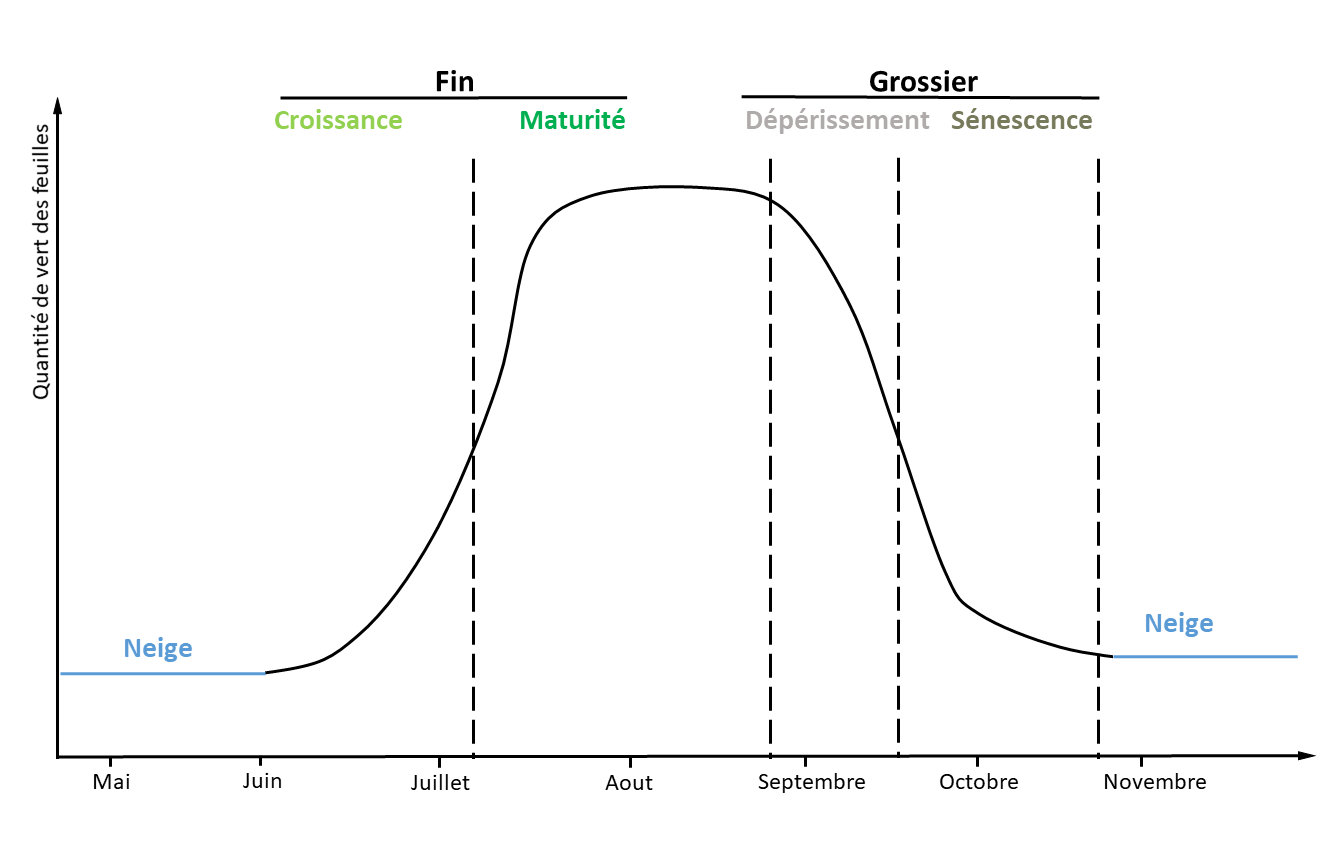
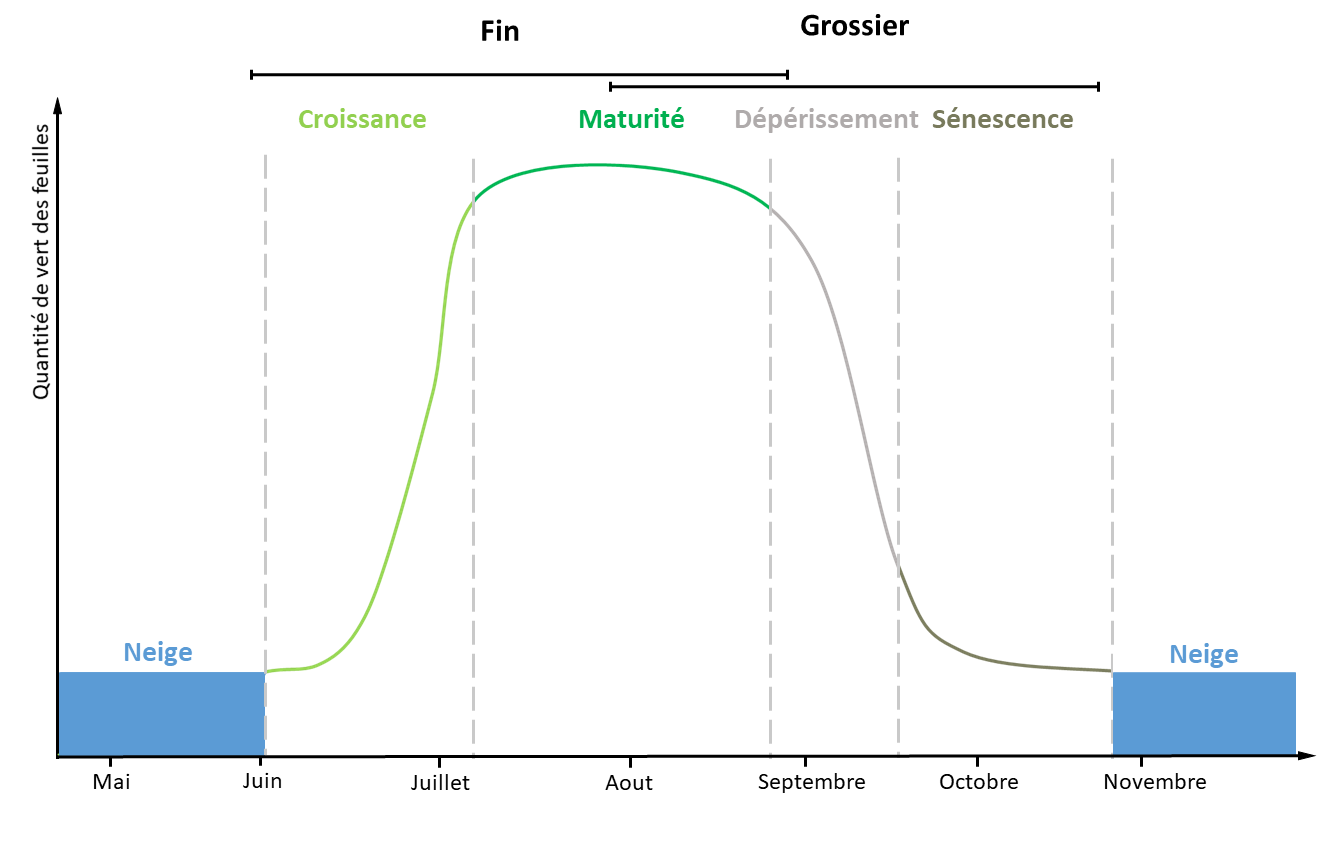
MAJ 26/06/2025 10:13

diff --git a/Carte_d_identité_des_estives.html b/Carte_d_identité_des_estives.html
@@ -294,7 +294,7 @@
 
 /* 2 ▸ slider plus proche du titre */
 .alpage-section .slider{
-  margin-top:12px;              /* 24 px → 12 px */
+  margin-top:10px;              /* 24 px → 12 px */
 }
 
 /* 3 ▸ ordre des blocs : image à gauche, texte à droite */
@@ -309,23 +309,23 @@
 <body class="suivi">
 
   <!-- ▸ NAVBAR PERSEE ───────────────────────────────────────── -->
-<nav class="persee-navbar">
-  <a class="logo" href="index.html">PERSEE</a>
+  <nav class="persee-navbar">
+    <a class="logo" href="index.html">PERSEE</a>
 
-  <!-- burger -->
-  <button class="nav-toggle" aria-label="Ouvrir / fermer le menu">
-    <span></span><span></span><span></span>
-  </button>
+    <!-- burger -->
+    <button class="nav-toggle" aria-label="Ouvrir / fermer le menu">
+      <span></span><span></span><span></span>
+    </button>
 
-  <!-- liens -->
-  <ul class="nav-links">
-    <li><a href="index.html">Le projet</a></li>
-    <li><a href="Suivi_GPS.html">Méthodes</a></li>
-    <li><a href="Carte_d_identité_des_estives.html">Identité des estives</a></li>
-    <li><a href="Espace_démonstrateur.html">Espace démonstrateur</a></li>
-  </ul>
-</nav>
-<!-- ────────────────────────────────────────────────────────── -->
+    <!-- liens -->
+    <ul class="nav-links">
+      <li><a href="index.html">PERSÉE</a></li>
+      <li><a href="Suivi_GPS.html">Méthodes</a></li>
+      <li><a href="Carte_d_identité_des_estives.html">Identité des estives</a></li>
+      <li><a href="Espace_démonstrateur.html">Espace démonstrateur</a></li>
+    </ul>
+  </nav>
+  <!-- ────────────────────────────────────────────────────────── -->
 
   <!-- ============================ HERO ============================ -->
   <section class="hero" style="background-image:url('images/hero.jpg')">
@@ -335,7 +335,7 @@
     </div>
   </section>
 
-  <!-- ============================ SELECTEUR ALPAGE ============================ -->
+  <!-- ============================ SÉLECTEUR D’ESTIVE ============================ -->
   <section class="section section-full">
     <div class="section-content text" style="text-align:center">
       <label for="alp_select">Choisissez une estive&nbsp;:</label>
@@ -347,13 +347,15 @@
     </div>
   </section>
 
-  <!-- ============================ TITRE SECTION ============================ -->
+  <!-- ============================ IDENTITÉ + CARROUSEL — ESTIVE X ============================ -->
   <section id="demonstratrice" class="section section-full alpage-section">
-    <div class="section-content"><h2>Carte d’identité </h2></div>
-  </section>
 
-  <!-- ============================ CARTES ============================ -->
-  <section class="section section-full analysis-section alpage-section">
+    <!-- ▸ Titre -->
+    <div class="section-content">
+      <h2>Carte d’identité</h2>
+    </div>
+
+    <!-- ▸ Blocs d’analyse + carrousel -->
     <div class="section-content">
 
       <div class="slider">
@@ -363,14 +365,14 @@
         <div class="analysis-block">
           <div class="analysis-image">
             <div class="carousel-wrapper" id="car-bloc1">
-              <img src="images/topo.png" class="zoomable behavior-img active" alt="MNT LiDAR" data-caption="Carte topographique (LiDAR)">
-              <img src="images/DAH.png" class="zoomable behavior-img" alt="DAH hydrique" data-caption="Indice DAH (pente × exposition)">
-              <img src="images/pente.png" class="zoomable behavior-img" alt="Carte des pentes" data-caption="Carte des pentes (degrés)">
+              <img src="images/topo.png"  class="zoomable behavior-img active" alt="MNT LiDAR"             data-caption="Carte topographique (LiDAR)">
+              <img src="images/DAH.png"   class="zoomable behavior-img"        alt="DAH hydrique"         data-caption="Indice DAH (pente × exposition)">
+              <img src="images/pente.png" class="zoomable behavior-img"        alt="Carte des pentes"     data-caption="Carte des pentes (degrés)">
             </div>
           </div>
           <div class="analysis-text">
             <h3>Topographie et hauteur de végétation</h3>
-            <p>Nous traitons les données Lidar de l’IGN pour caractériser la topographie des estives et la hauteur de la végétation à très haute résolution spatiale (1 m).</p>
+            <p>Nous traitons les données LiDAR de l’IGN pour caractériser la topographie des estives et la hauteur de la végétation à très haute résolution spatiale (1&nbsp;m).</p>
           </div>
         </div>
 
@@ -381,14 +383,12 @@
               <img src="images/snow2021.png" class="zoomable behavior-img" alt="SMOD 2021" data-caption="Enneigement hiver 2021 (SMOD)">
               <img src="images/snow2022.png" class="zoomable behavior-img" alt="SMOD 2022" data-caption="Enneigement hiver 2022 (SMOD)">
               <img src="images/snow2023.png" class="zoomable behavior-img" alt="SMOD 2023" data-caption="Enneigement hiver 2023 (SMOD)">
-              <img src="images/Fsca.png" class="zoomable behavior-img active" alt="FSCA" data-caption="Enneigement median sur 15 ans (FSCA)">
+              <img src="images/Fsca.png"    class="zoomable behavior-img active" alt="FSCA" data-caption="Enneigement médian sur 15 ans (FSCA)">
             </div>
           </div>
           <div class="analysis-text">
             <h3>Enneigement saisonnier</h3>
-            <p>En collaboration avec le CESBIO (CNRS, Université de Toulouse), nous déterminons pour chaque année les dates du déneigement printanier et du réenneigement automnal 
-            à 20m de résolution spatiale. Les conditions météorologiques au cours de la période sans neige sont également produites à fine résolution spatiale afin de modéliser la 
-            pousse saisonnière de l’herbe dans les différents quartiers de l’estive.</p>
+            <p>En collaboration avec le CESBIO (CNRS, Université de Toulouse), nous déterminons pour chaque année les dates de déneigement printanier et de réenneigement automnal (20 m de résolution). Les conditions météorologiques durant la période sans neige sont également produites afin de modéliser la pousse saisonnière de l’herbe.</p>
           </div>
         </div>
 
@@ -399,8 +399,7 @@
           </div>
           <div class="analysis-text">
             <h3>Habitats</h3>
-            <p>Nous réalisons des cartes de distribution des habitats selon leur vocation pastorale. Ce travail est réalisé soit en s’appuyant sur des cartographies existantes, 
-            soit en développant de nouveaux produits combinant imagerie satellite et données acquises au sol.</p>
+            <p>Nous réalisons des cartes de distribution des habitats selon leur vocation pastorale, à partir de cartographies existantes ou de nouveaux produits combinant imagerie satellite et données de terrain.</p>
           </div>
         </div>
 
@@ -408,7 +407,9 @@
         <div class="analysis-block">
           <div class="analysis-image">
             <div class="carousel-wrapper" id="car-bloc3">
-              <video class="behavior-img" autoplay loop muted playsinline preload="auto" data-caption="Vague verte (animation)"><source src="images/Greenwave.mp4" type="video/mp4"></video>
+              <video class="behavior-img" autoplay loop muted playsinline preload="auto" data-caption="Vague verte (animation)">
+                <source src="images/Greenwave.mp4" type="video/mp4">
+              </video>
               <img src="images/Carte_MAX_V_2021.png" class="zoomable behavior-img" alt="Production 2021" data-caption="Production 2021 (NDVI max)">
               <img src="images/Carte_MAX_V_2022.png" class="zoomable behavior-img" alt="Production 2022" data-caption="Production 2022 (NDVI max)">
               <img src="images/Carte_MAX_V_2023.png" class="zoomable behavior-img" alt="Production 2023" data-caption="Production 2023 (NDVI max)">
@@ -416,9 +417,7 @@
           </div>
           <div class="analysis-text">
             <h3>Phénologie</h3>
-            <p>Nous traitons les images satellite Sentinel-2 (produit HR-VPP, résolution 20m) afin de caractériser les différentes phases de la pousse de l’herbe (croissance, 
-            maturité, senescence, dépérissement) au cours de la saison de chaque année de suivi. Ces cycles phénologiques renseignent indirectement sur la qualité de la ressource 
-            pastorale disponible (fin et grossier).</p>
+            <p>À partir des images Sentinel-2 (HR-VPP, 20 m), nous caractérisons les phases de la pousse de l’herbe (croissance, maturité, sénescence) pour chaque saison, renseignant indirectement la qualité de la ressource pastorale.</p>
           </div>
         </div>
 
@@ -430,7 +429,7 @@
 
 <!-- ===== FOOTER ===== -->
 <footer>
-  <p>&copy;&nbsp;2025&nbsp;PERSEE&nbsp;—&nbsp;Tous droits réservés.</p>
+  <p>&copy;&nbsp;2025&nbsp;PERSÉE&nbsp;—&nbsp;Tous droits réservés.</p>
 </footer>
   <!-- ============================ LIGHTBOX ============================ -->
   <div id="lightbox">

diff --git a/index.html b/index.html
@@ -171,11 +171,11 @@
 
     <!-- ▸ NAVBAR -->
     <nav class="persee-navbar">
-      <a class="logo" href="index.html">PERSEE</a>
+      <a class="logo" href="index.html">PERSÉE</a>
       <button class="nav-toggle" aria-label="Ouvrir / fermer le menu"><span></span><span></span><span></span></button>
 
       <ul class="nav-links">
-        <li><a href="index.html">Le projet</a></li>
+        <li><a href="index.html">PERSÉE</a></li>
         <li><a href="Suivi_GPS.html">Méthodes</a></li>
         <li><a href="Carte_d'identité_des_estives.html">Identité des estives</a></li>
         <li><a href="Espace_démonstrateur.html">Espace démonstrateur</a></li>
@@ -185,7 +185,7 @@
     <!-- ▸ HERO -->
     <section class="hero">
       <div class="hero-content">
-        <h1>PERSEE</h1>
+        <h1>PERSÉE</h1>
         <p>Pastoralisme Et biodiveRsités dans le Socio-Écosystème Estive</p>
       </div>
     </section>
@@ -194,10 +194,10 @@
     <section class="section project-intro">
       <div class="content-grid">
         <div class="text">
-          <h2>Le projet PERSEE : c’est quoi ?</h2>
+          <h2>Le projet PERSÉE : c’est quoi ?</h2>
           <p>C’est un projet de connaissances portant sur les liens entre les activités pastorales en estive et les dynamiques des biodiversités.
           L’estive est un espace partagé ; à la fois espace agricole, espace récréatif et lieu de préservation d’une vie « sauvage ». 
-          PERSEE contribue à comprendre comment ces différentes vocations de l’estive peuvent être conciliées dans un contexte marqué par le
+          PERSÉE contribue à comprendre comment ces différentes vocations de l’estive peuvent être conciliées dans un contexte marqué par le
           changement climatique, les transformations dans l’usage de l’espace montagne et les mutations socio-économiques.</p>
         
     </section>
@@ -207,8 +207,8 @@
       <div class="content-grid reverse">
         <div class="image"><img src="images/projet_1.jpg" alt="Objectifs PERSEE"></div>
         <div class="text">
-          <h2>Que fait-on dans PERSEE ?</h2>
-          <p>PERSEE réalise un suivi des déplacements des troupeaux pendant la saison d’estive. Les données recueillies sont croisées avec de 
+          <h2>Que fait-on dans PERSÉE ?</h2>
+          <p>PERSÉE réalise un suivi des déplacements des troupeaux pendant la saison d’estive. Les données recueillies sont croisées avec de 
           nombreuses autres informations telles que les contraintes liées à la conduite, l’enneigement, le microclimat, la distribution des habitats, 
           la fréquentation humaine, les déplacements des ongulés sauvages etc. Le traitement de l’ensemble de ces données conduit à une vision systémique 
           du fonctionnement et de la dynamique du socio-écosystème estive.</p>
@@ -220,9 +220,9 @@
     <section class="section project-contributors">
       <div class="content-grid">
         <div class="text">
-          <h2>Qui contribue à PERSEE ?</h2>
-          <p>Le projet PERSEE est une coopération entre le CNRS et l’OFB. Il se déploie actuellement dans une dizaine d’estives réparties dans les Alpes
-          et les Pyrénées françaises. Les actions du projet sont mises en œuvre grâce à une étroite collaboration la profession agricole 
+          <h2>Qui contribue à PERSÉE ?</h2>
+          <p>Le projet PERSÉE est une coopération entre le CNRS et l’OFB. Il se déploie actuellement dans une dizaine d’estives réparties dans les Alpes
+          et les Pyrénées françaises. Les actions du projet sont mises en œuvre grâce à une étroite collaboration entre la profession agricole 
           (groupements pastoraux, éleveurs et bergers) et les gestionnaires d’espaces protégés (Parcs Nationaux, parcs régionaux, réserves naturelles). 
           D’autres sites candidats peuvent rejoindre le dispositif.</p>
         </div>
@@ -232,7 +232,7 @@
 
     <!-- ▸ Équipe -->
     <section class="team-banner">
-      <h2>L’équipe PERSEE</h2>
+      <h2>L’équipe PERSÉE</h2>
       <ul>
         <li><strong>Coordination :</strong> Philippe Choler (CNRS) &amp; Mathieu Garel (OFB)</li>
         <li><strong>Chargée de mission :</strong> Marion Janel</li>
@@ -260,7 +260,7 @@
     </section>
 
     <!-- ▸ FOOTER -->
-    <footer>&copy;&nbsp;2025&nbsp;PERSEE — Tous droits réservés.</footer>
+    <footer>&copy;&nbsp;2025&nbsp;PERSÉE — Tous droits réservés.</footer>
 
     <!-- ====================== SCRIPT ====================== -->
     <script>

diff --git a/Suivi_GPS.html b/Suivi_GPS.html
@@ -279,7 +279,7 @@
 <body>
 <!-- ▸ NAVBAR PERSEE ───────────────────────────────────────── -->
 <nav class="persee-navbar">
-  <a class="logo" href="index.html">PERSEE</a>
+  <a class="logo" href="index.html">PERSÉE</a>
 
   <!-- burger -->
   <button class="nav-toggle" aria-label="Ouvrir / fermer le menu">
@@ -288,7 +288,7 @@
 
   <!-- liens -->
   <ul class="nav-links">
-    <li><a href="index.html">Le projet</a></li>
+    <li><a href="index.html">PERSÉE</a></li>
     <li><a href="Suivi_GPS.html">Méthodes</a></li>
     <li><a href="Carte_d_identité_des_estives.html">Identité des estives</a></li>
     <li><a href="Espace_démonstrateur.html">Espace démonstrateur</a></li>
@@ -324,7 +324,7 @@
           <img src="images/DSC_0014.JPG" class="zoomable" data-caption="Collier GPS (catlog)" alt="Collier GPS"/>
         </div>
         <div class="analysis-text">
-          <h3>1. Déplacements</h3>
+          <h3>1. Déplacement</h3>
           <p>Le déplacement des brebis est suivi grâce à des colliers équipés de GPS programmés pour une acquisition toutes les 2 minutes. L’autonomie de la batterie permet de suivre le 
           déplacement de l’animal pendant 3 à 4 mois. Il n’y a pas d’intervention à prévoir pendant la saison en estive. Il n’y a pas de transmission des données en temps réel. Avec 6 à 8 animaux équipés,
           il est possible de bien représenter les déplacements d’un troupeau ovin conduit.  La méthode a été testée avec succès sur plusieurs alpages depuis trois ou quatre ans.</p>
@@ -384,7 +384,7 @@
 
 <!-- ===== FOOTER ===== -->
 <footer>
-  <p>&copy;&nbsp;2025&nbsp;PERSEE&nbsp;—&nbsp;Tous droits réservés.</p>
+  <p>&copy;&nbsp;2025&nbsp;PERSÉE&nbsp;—&nbsp;Tous droits réservés.</p>
 </footer>
 
 <!-- ===== LIGHTBOX (structure) ===== -->

diff --git a/Espace_démonstrateur.html b/Espace_démonstrateur.html
@@ -332,7 +332,7 @@ h2.section-title {
 <body>
 <!-- ▸ NAVBAR PERSEE ───────────────────────────────────────── -->
 <nav class="persee-navbar">
-  <a class="logo" href="index.html">PERSEE</a>
+  <a class="logo" href="index.html">PERSÉE</a>
 
   <!-- burger -->
   <button class="nav-toggle" aria-label="Ouvrir / fermer le menu">
@@ -341,7 +341,7 @@ h2.section-title {
 
   <!-- liens -->
   <ul class="nav-links">
-    <li><a href="index.html">Le projet</a></li>
+    <li><a href="index.html">PERSÉE</a></li>
     <li><a href="Suivi_GPS.html">Méthodes</a></li>
     <li><a href="Carte_d_identité_des_estives.html">Identité des estives</a></li>
     <li><a href="Espace_démonstrateur.html">Espace démonstrateur</a></li>
@@ -494,16 +494,16 @@ h2.section-title {
 <!-- ========== CROISEMENTS ========= -->
 <section class="section section-full analysis-section cross-section">
   <div class="section-content">
-    <h2 class="section-title">Croisement avec les données biophysiques</h2>
+    <h2 class="section-title">Croisement des données</h2>
 
   <div class="cross-block">
-  <h3>Chargement et végétation</h3>
+  <h3>Chargement par habitat</h3>
   <p>Taux de chargement associé à chacun des habitats pastoraux aux cours de la saison d’estive.</p>
   <img src="images/comparaison_habitats.png" alt="Chargement & végétation">
 </div>
 
 <div class="cross-block">
-  <h3>Présence du troupeau et phénologie</h3>
+  <h3>Présence du troupeau par stade phénologique</h3>
   <p>Description du rapprochement entre les positions GPS et les phases de pousse de l’herbe.</p>
   <img src="images/pheno.png" alt="Présence & phénologie">
 </div> 
